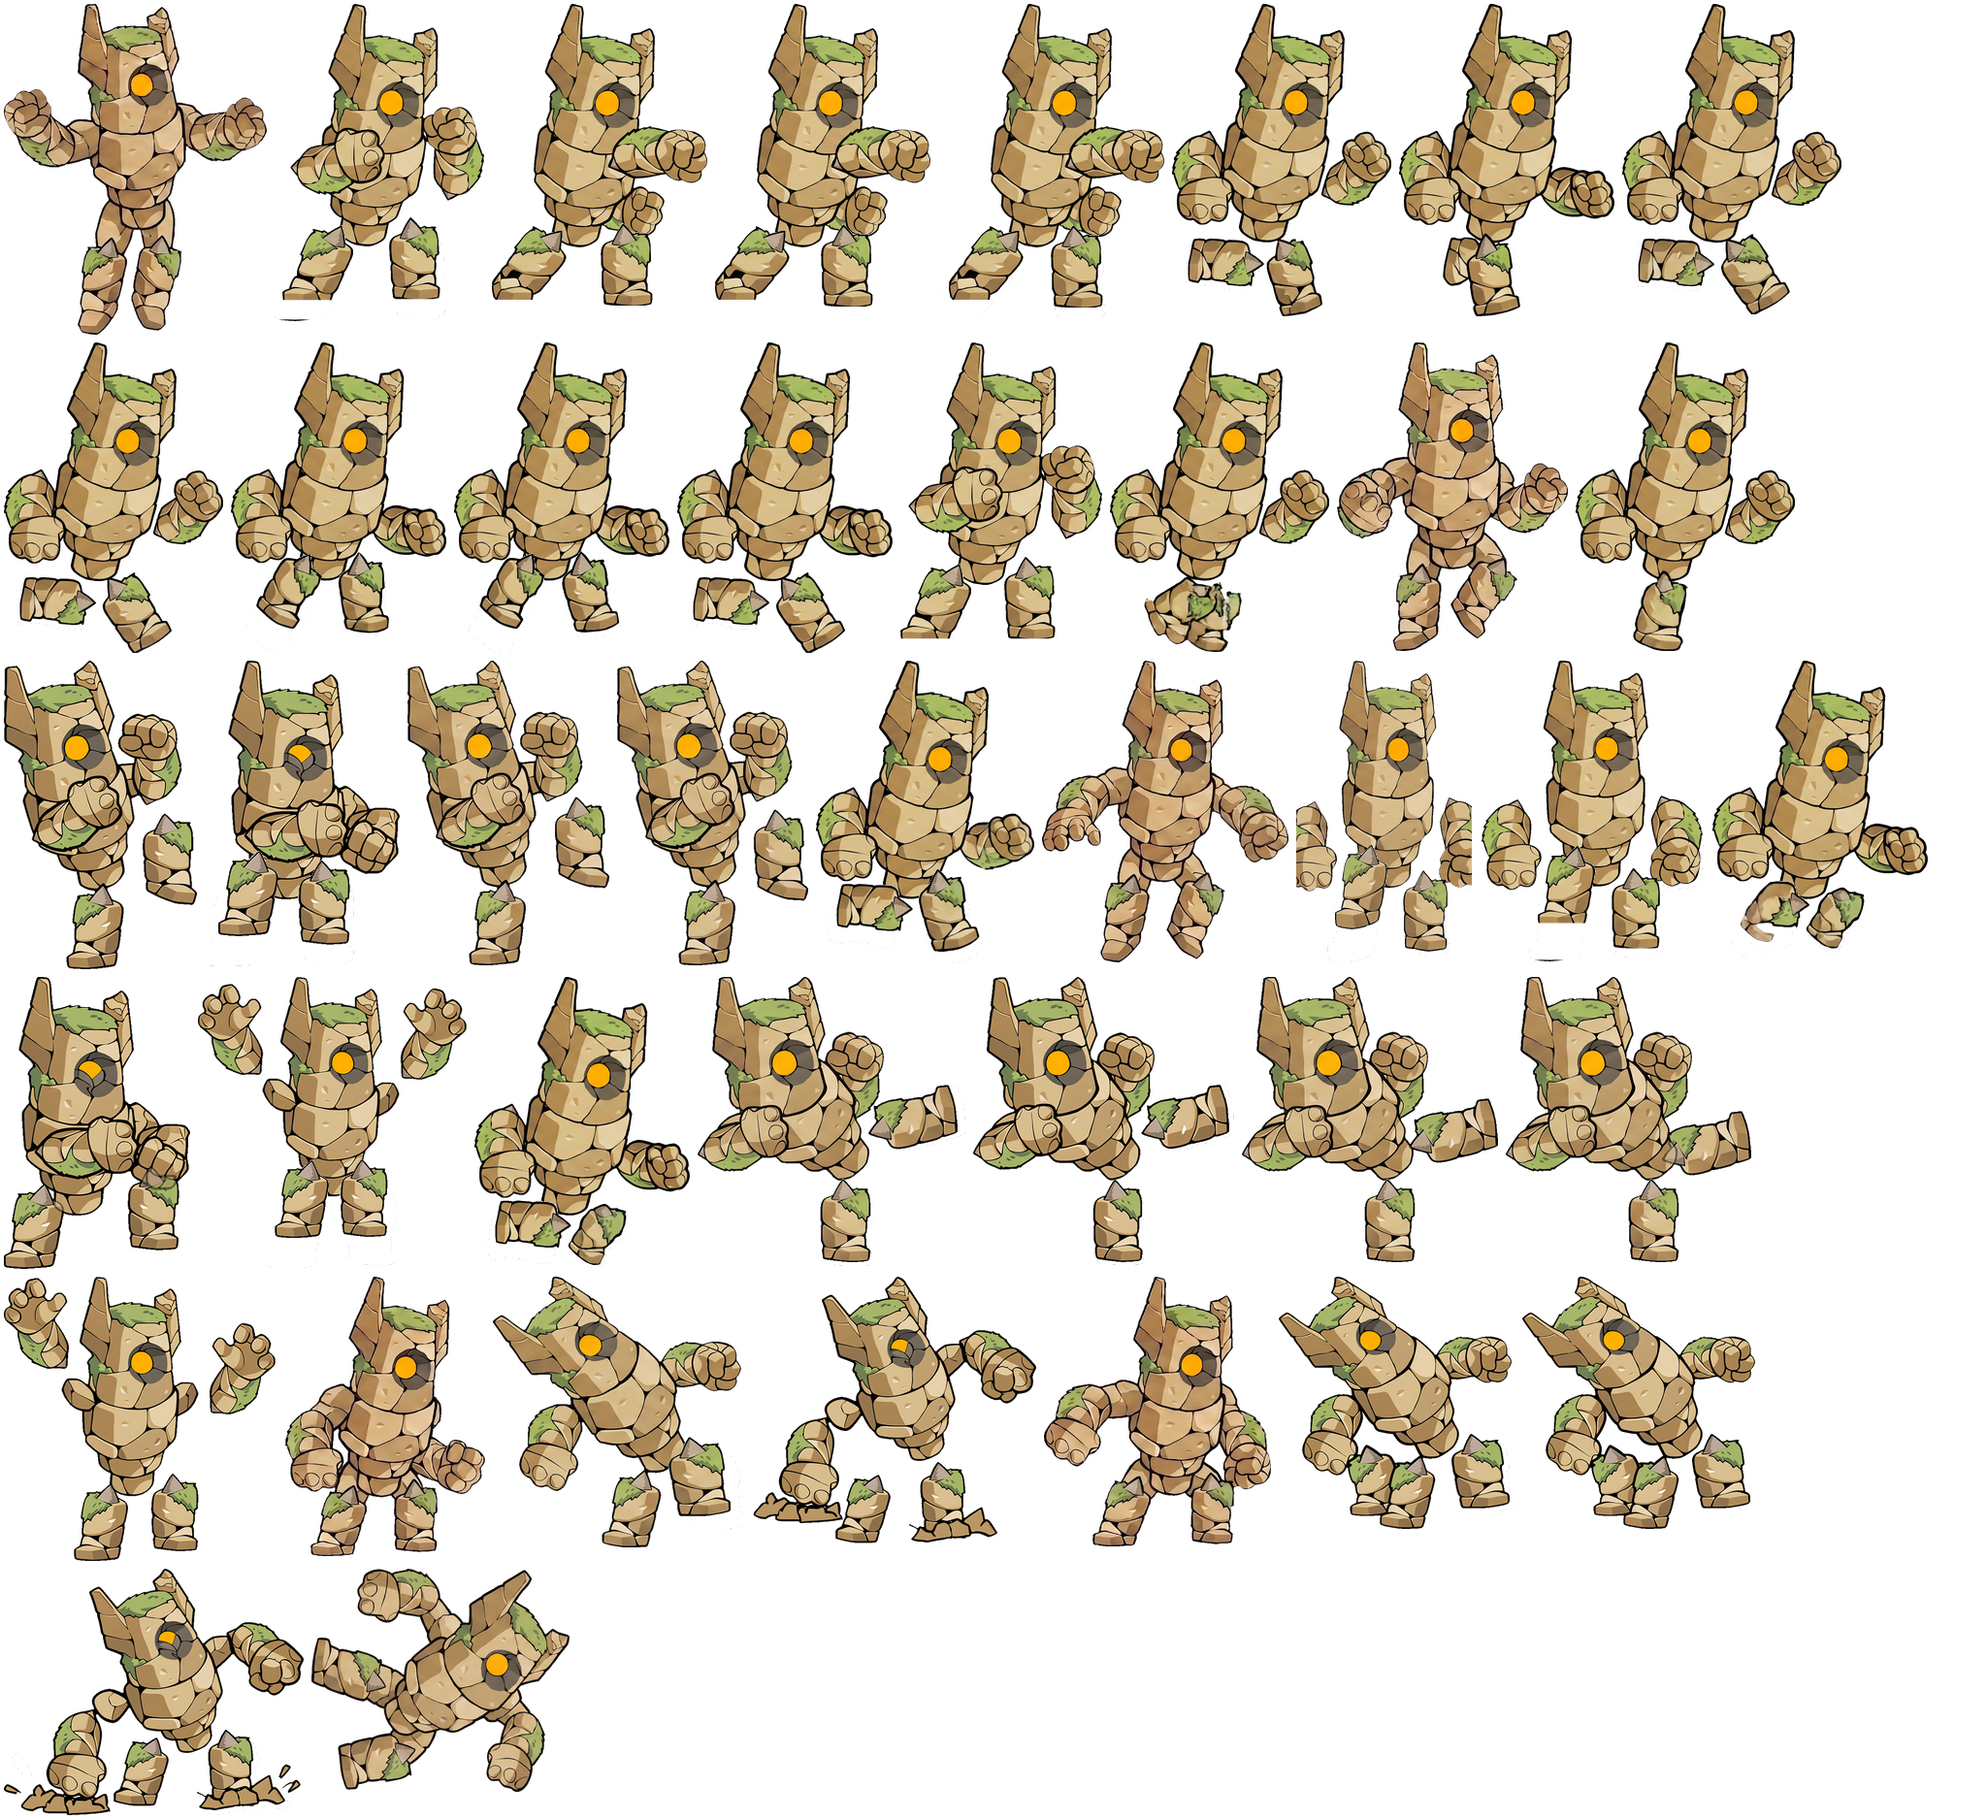
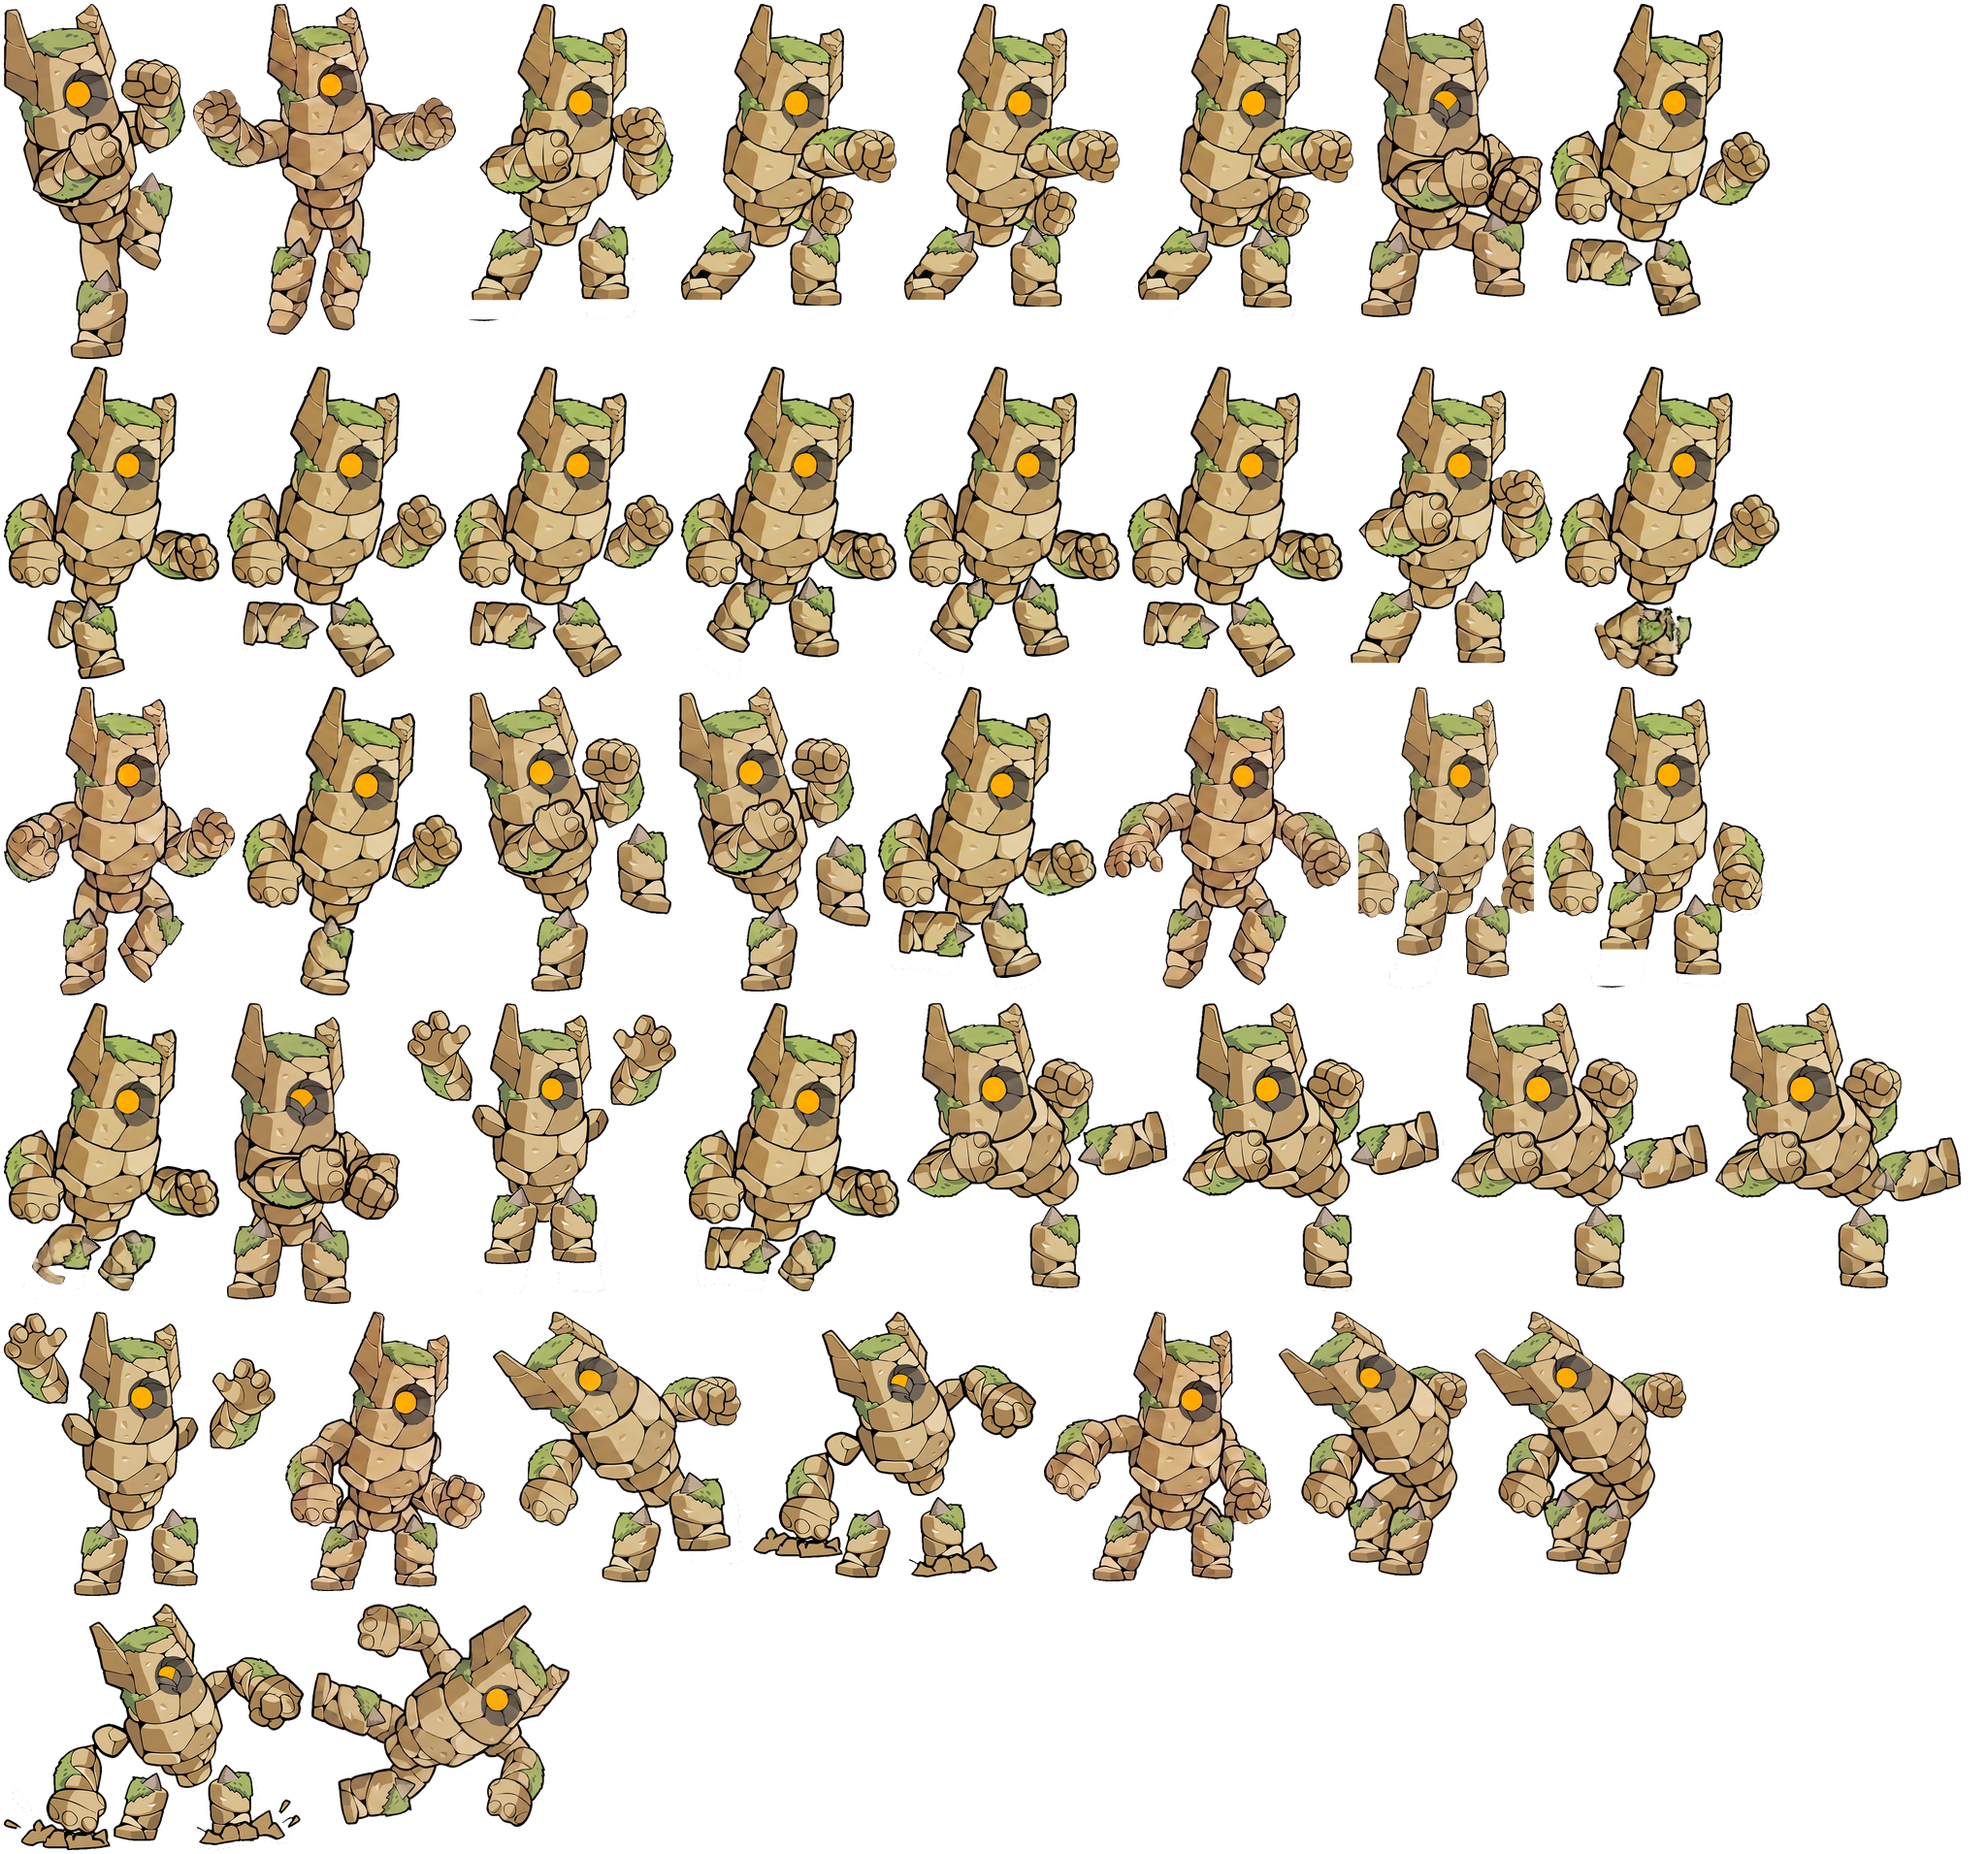
Regenerar la hoja de skill de Kor y borrar los blancos encerrados
Tercera acción de la tanda de 257cb00/eece6b1: las 5 poses de skill
traían miembros sueltos del torso. La primera regeneración salió con
las poses 2 y 3 pegadas (el puño trasero contra el cuerno, 340 filas
de contacto) y el cortador no podía separarlas; la segunda pidió
explícitamente más aire entre figuras y salió limpia.

El operador vio además parches de fondo blanco ENCERRADO (el hueco
entre el brazo y el cuerpo) en skill[1], skill[2] y jump[0], que el
inundado desde los bordes no alcanza. Borrados con blancos-sueltos.py
tras confirmar a ojo que eran fondo; el umbral del script baja de 1,2%
a 0,8% porque estos tres (0,9-1,05%) quedaban abajo del corte y eran
perfectamente visibles en el juego. El webp se regenera aparte porque
blancos-sueltos.py sólo reescribe el png.

Quedan con la falla de origen: run, super, gira.

diff --git a/scripts/blancos-sueltos.py b/scripts/blancos-sueltos.py
@@ -39,9 +39,11 @@ LISTA = RAIZ / 'shots' / 'blancos.json'
 CLARO = 232
 GRIS = 14
 #: Fracción del cuadro a partir de la cual una región vale la pena mirar.
-#: A 0,4% salen 166 regiones y casi todas son dientes, ojos y hebillas. Lo que
-#: el operador ve como "fondo blanco sin recortar" empieza arriba del 1,2%.
-UMBRAL = 0.012
+#: A 0,4% salen 166 regiones y casi todas son dientes, ojos y hebillas. El
+#: corte estaba en 1,2% pero los parches de skill/jump de Kor (23/08) medían
+#: 0,9-1,05% y se veían perfectamente en el juego: 0,8% los agarra sin volver
+#: al ruido de los dientes.
+UMBRAL = 0.008
 
 
 def etiquetar(mask: np.ndarray) -> list[np.ndarray]:
